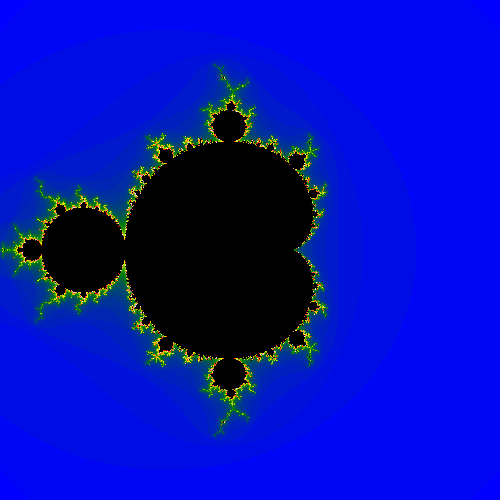
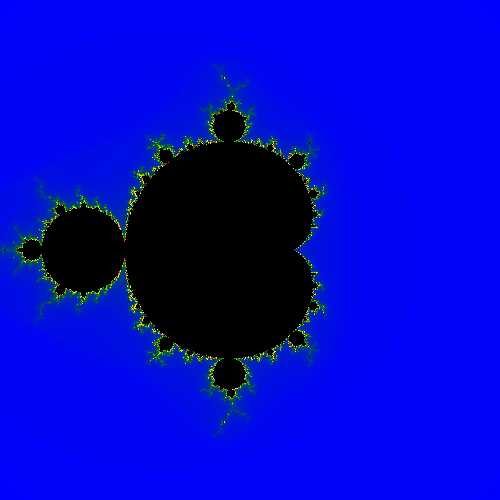
non useful commit

Changed region(s): [[0.0, 0.12, 0.69, 0.9]]

diff --git a/MandelbrotSetMatplolib.py b/MandelbrotSetMatplolib.py
@@ -8,7 +8,7 @@ f = lambda z, c: z**2 + c
 x_start, y_start = -1.5, -1.5
 width, height = 3, 3
 resolution = 500
-iterations = 100
+iterations = 200
 
 # real and imaginary axis
 real_axis = np.linspace(x_start, x_start + width, resolution)
